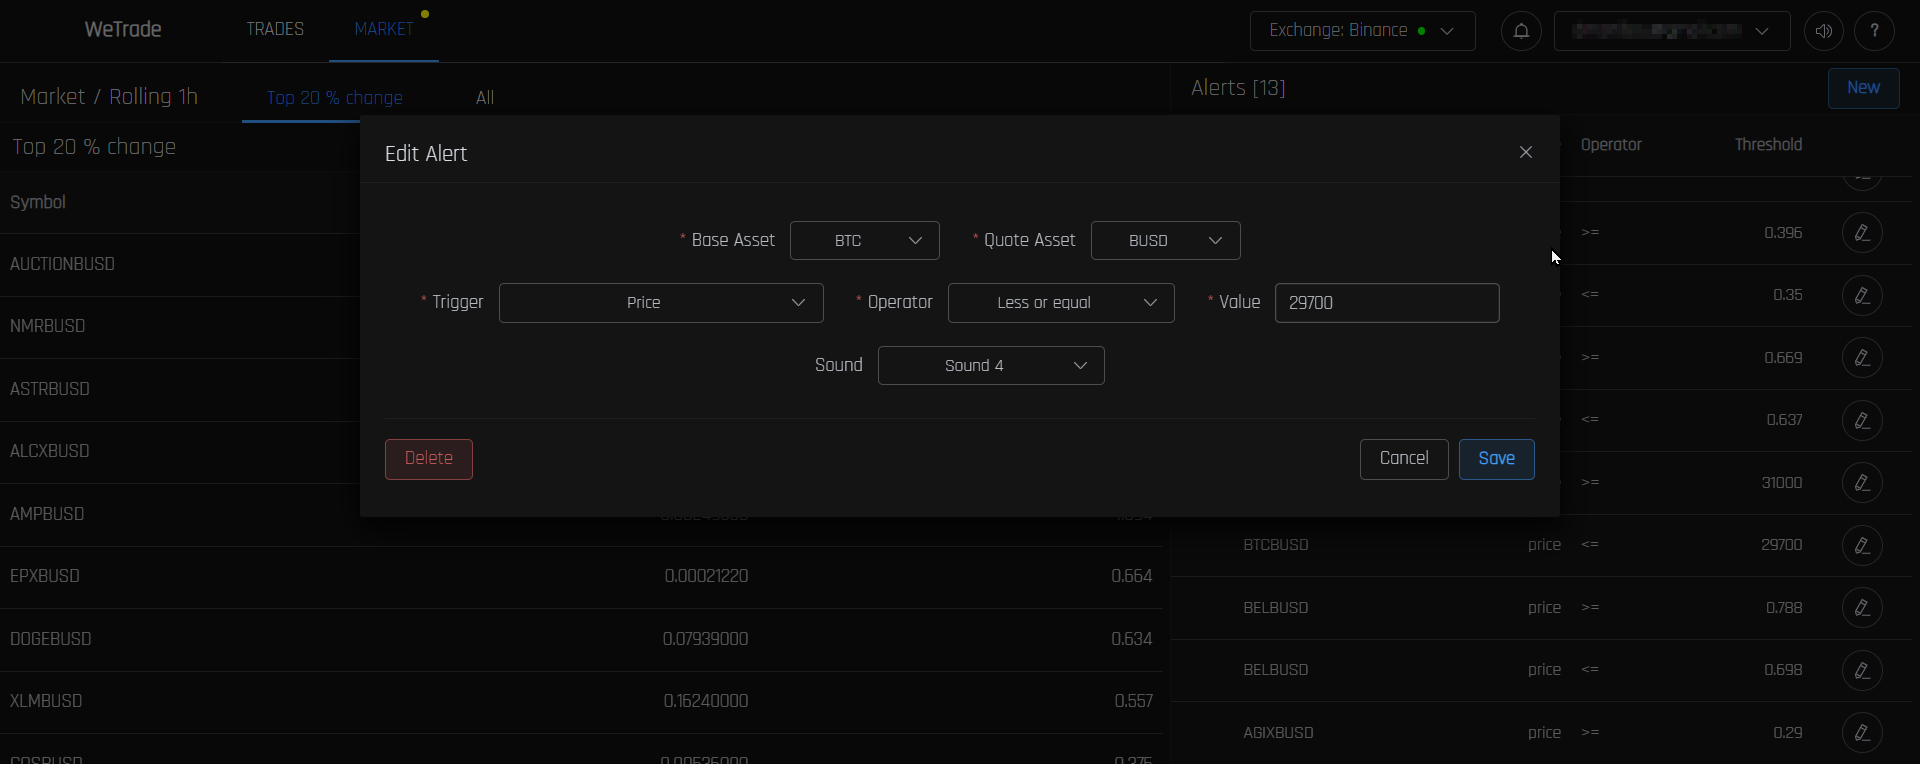
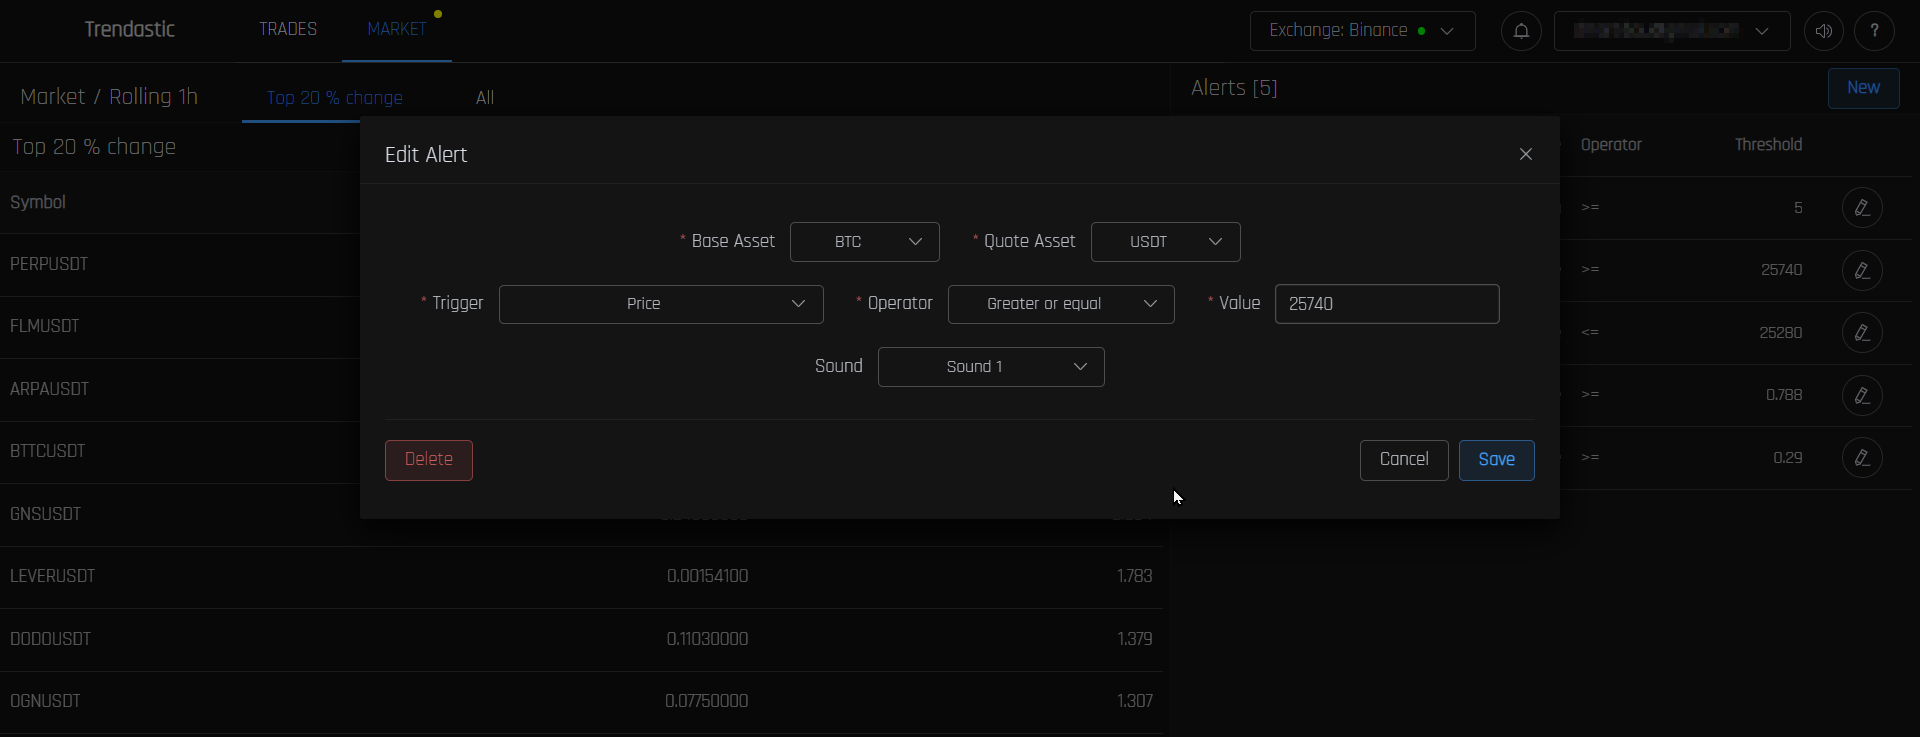
Current work desc + update pics

diff --git a/components/_core/PicDisplayer.vue b/components/_core/PicDisplayer.vue
@@ -7,10 +7,10 @@ import { useEventListener } from '@vueuse/core';
 //__
 const props = withDefaults( defineProps<{
 	triggerSelector?: string,
-	replOriginSrc?: string,
+	replOriginSrc?: string | RegExp,
 }>(), {
 	triggerSelector: 'img',
-	replOriginSrc: '_ipx/s_280x112/'
+	replOriginSrc: /_ipx\/s_[0-9]+x[0-9]+\//,
 } );
 
 const elRoot = ref<Element>();
@@ -32,9 +32,8 @@ onMounted( () => {
 			return;
 		}
 		
-		elImg.value = ev.target;
 		visible.value = true;
-		imgIndex.value = Array.prototype.indexOf.call( els.value, ev.target );
+		setCurrent( Array.prototype.indexOf.call( els.value, ev.target ) );
 		
 		// console.log( 'click', [ev.target], ev.target.matches( props.triggerSelector ) );
 	} );
@@ -43,6 +42,7 @@ onMounted( () => {
 function setCurrent( index ){
 	imgIndex.value = Math.max( 0, Math.min( els.value.length, index ));
 	elImg.value = els.value.item( index );
+	// console.log('setCurrent', elImg.value?.src );
 }
 
 function handleHide(){
@@ -57,6 +57,8 @@ function handleNext(){
 	setCurrent( imgIndex.value+1 );
 }
 
+//__ TODO: dynamic size ( instead 1280x491 ) either on PicDisplayer, either also on data-width from original pic
+
 </script>
 
 <template lang="pug">
@@ -69,7 +71,7 @@ function handleNext(){
 				Button(@click="handlePrev" :disabled="!imgIndex" aria-label="Previous" icon="pi pi-angle-left" text rounded)
 				.pager {{ imgIndex+1 }} / {{ els.value.length }}
 				Button(@click="handleNext" :disabled="imgIndex>=els.value.length-1" aria-label="Next" icon="pi pi-angle-right" text rounded)
-		NuxtImg(v-if="elImg" :src="elImg.src.replace(`${elImg.baseURI}${props.replOriginSrc}`,'')" width="1280" height="509" )
+		NuxtImg(v-if="elImg" :src="elImg.src.replace( replOriginSrc,'')" width="1280" height="491" )
 </template>
 
 <style lang="scss">

diff --git a/pages/index.vue b/pages/index.vue
@@ -42,17 +42,25 @@ section.page-home
 
 	.work
 		h2 Current Work
-		PicDisplayer
-			.pics
+		p Trendastic: a web application allowing to manage trading spot orders over multiple exchanges ( Binance, etc. ). 
+			| A market tab shows you the most hourly hot symbols, and where you can manage alerts ( price moves, volume, etc. ).
+			| There is also a demo mode ( paper trading ) with fake wallet initalized with 1000 USDT so you can try trading
+			|  in real market conditions but without real money ( contests soon ).
+		PicDisplayer.pics
 				.pic.bt
-					NuxtImg(src="/img/work/trade-orders.png" preset="workThumb" width="280" height="112" loading="lazy"
+					NuxtImg(src="/img/work/trade-orders.png" preset="workThumb" width="280" height="107" loading="lazy"
 						alt="Trade orders & User assets" )
 				.pic.bt
-					NuxtImg(src="/img/work/market-tab.png" preset="workThumb" width="280" height="112" loading="lazy"
+					NuxtImg(src="/img/work/market-tab.png" preset="workThumb" width="280" height="107" loading="lazy"
 						alt="Market tab")
 				.pic.bt
-					NuxtImg(src="/img/work/market-alert-edit.png" preset="workThumb" width="280" height="112" loading="lazy"
+					NuxtImg(src="/img/work/market-alert-edit.png" preset="workThumb" width="280" height="107" loading="lazy"
 						alt="Market alert edition" )
+		p Feel free to 
+			NuxtLink(to="/contact") request a demo 
+			| for testing it live or get more infos !
+			br
+			| Demo mode only requires registration email, but you will able to test all features.
 PageNav(:next="{label:'Experiences',link:'/experiences'}")
 </template>
 
@@ -77,6 +85,7 @@ PageNav(:next="{label:'Experiences',link:'/experiences'}")
 	flex-direction: row;
 	justify-content: space-between;
 	gap: 10px;
+	margin-bottom: 10px;
 }
 
 </style>
